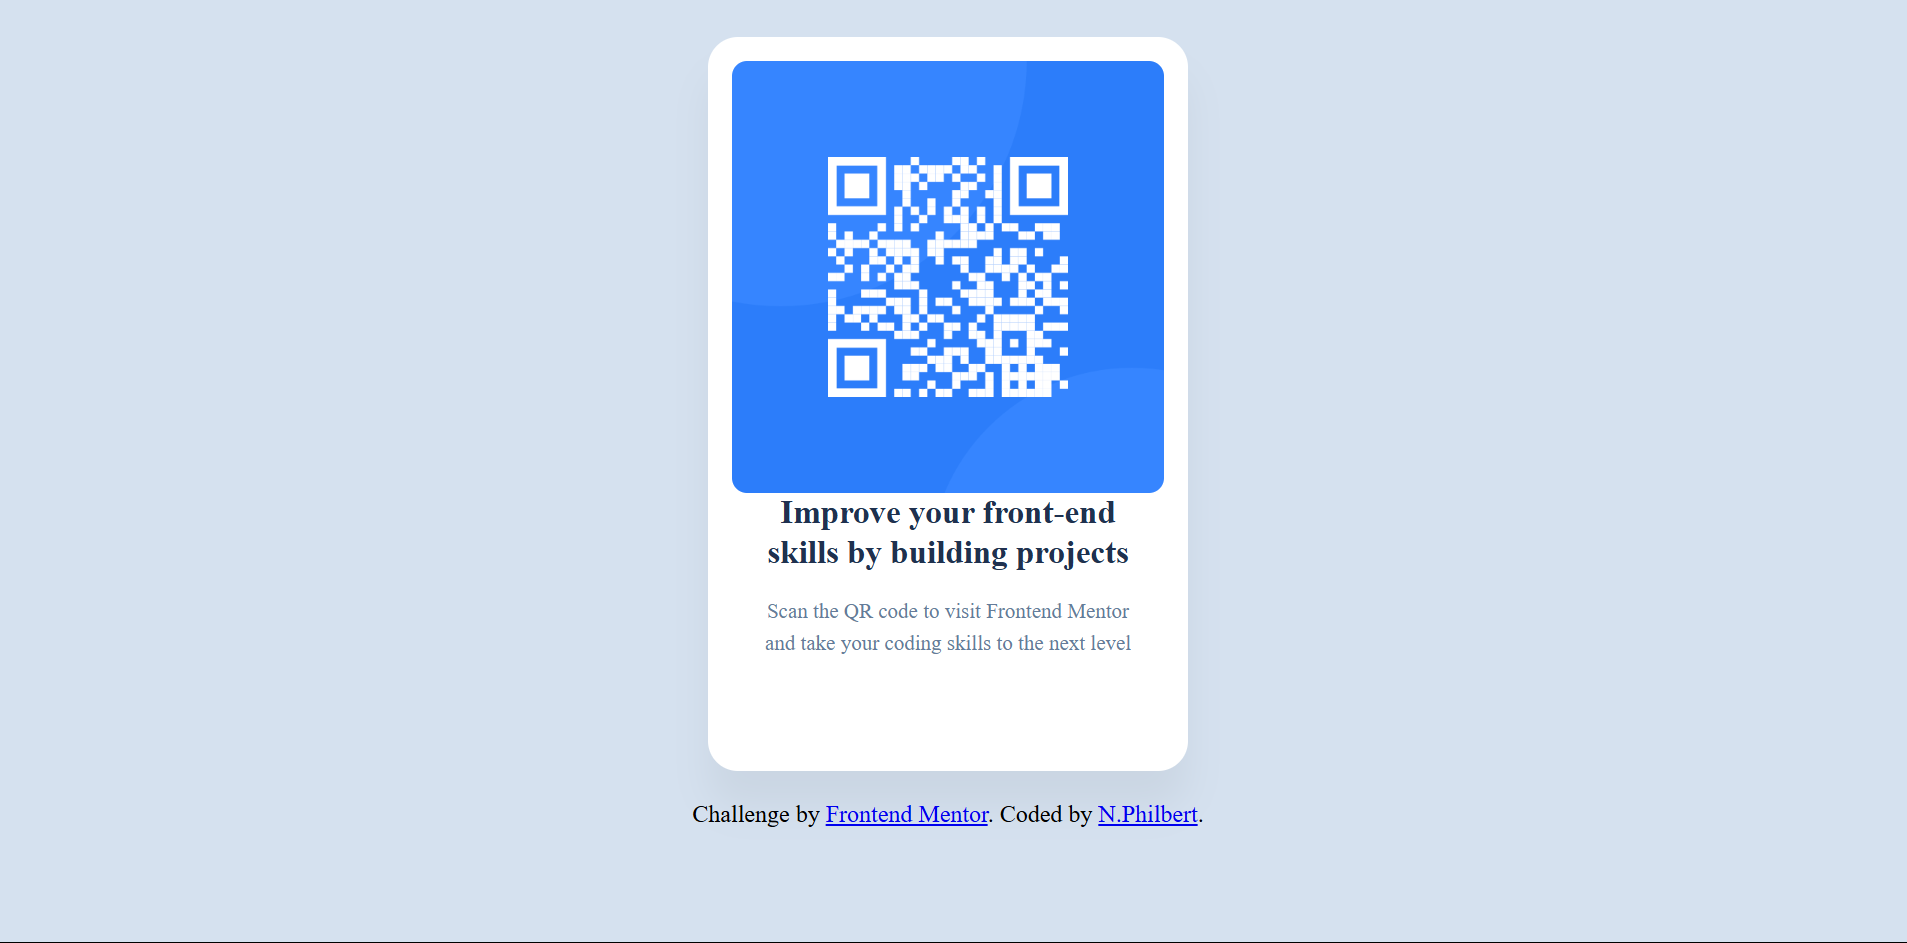
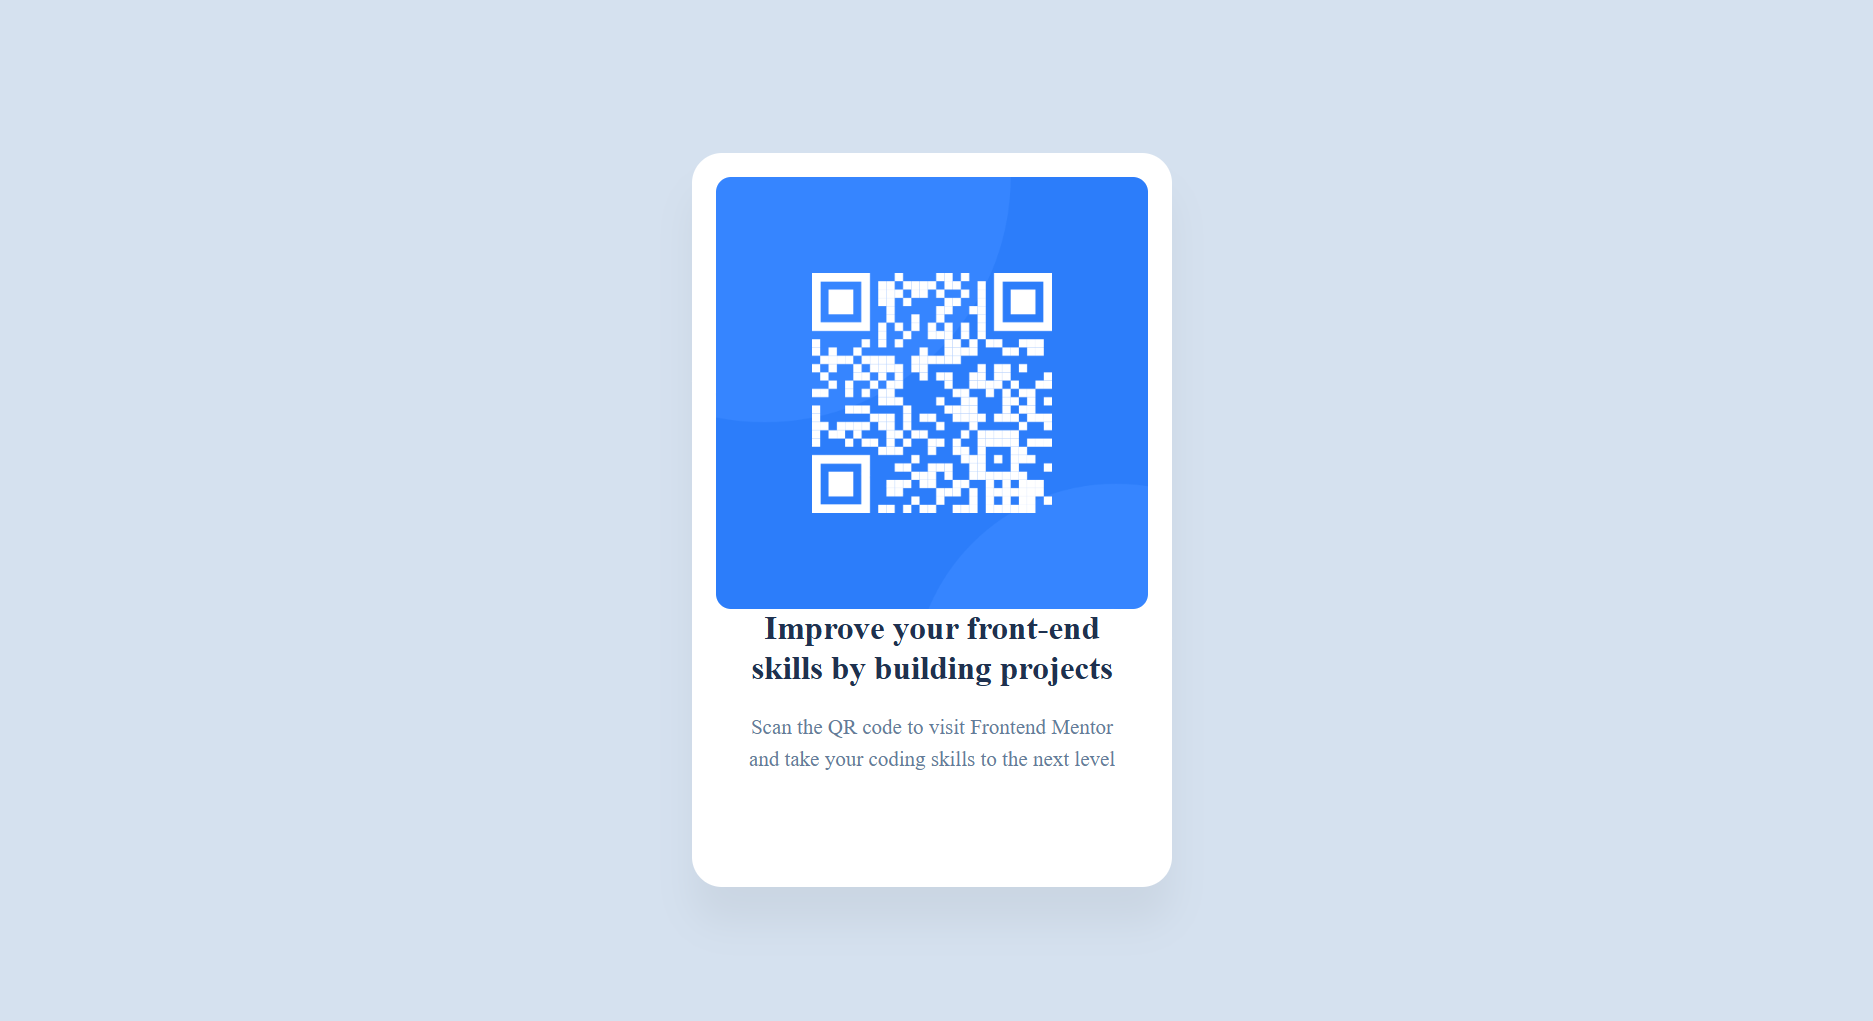
version beta index.html

Changed region(s): [[0.3716, 0.0308, 0.6503, 0.7688], [0.3716, 0.7996, 0.6503, 0.8918]]

diff --git a/index.html b/index.html
@@ -23,8 +23,7 @@
       --spacing--500: 40px;
     }
     body{
-      /*width: 1440px;
-      height: 960px;*/
+      height: 100vh;
       display: flex;
       flex-direction: column;
       justify-content: center;
@@ -32,8 +31,8 @@
       background: var(--color-slate-300, #D5E1EF);
     }
     .container{
-      position: relative;
-      top: 50px;
+      align-self: center;
+      justify-self: center;
       padding: 16px 16px 40px 16px;
       margin: 20px;;
       display: flex;
